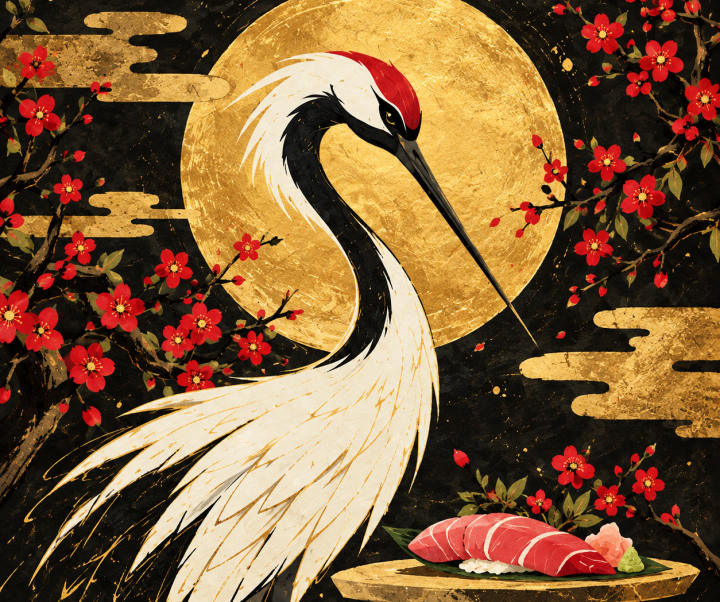
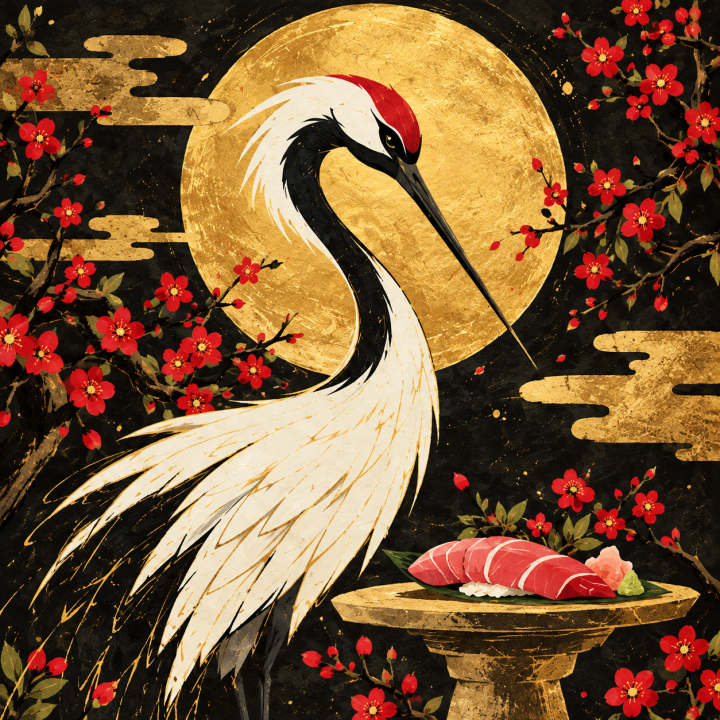
fix: one shared CuisineArt component for every screen, whole-image card art

diff --git a/mobile/src/features/cards/CuisineArtView.tsx b/mobile/src/features/cards/CuisineArtView.tsx
@@ -1,0 +1,77 @@
+import { useState, type ReactNode } from 'react';
+import { Image, StyleSheet, View, type LayoutChangeEvent, type StyleProp, type ViewStyle } from 'react-native';
+import { CuisineIcon } from './CuisineIcon';
+import { cuisineColors, cuisineIconFor, getCuisineArt, getCuisineCardArt, type CuisineKey } from './cuisineArt';
+
+// The one place cuisine art is drawn. Every screen (map tokens, the sheet thumbnail, the card
+// in the collection, detail, reveal and map popup) goes through here, so a cuisine looks the
+// same everywhere and a missing image falls back the same way.
+//   token: a circle, image covers it.      thumb: a rounded square, image covers it.
+//   card:  the whole image, contained and centred, over a blurred copy of itself so the
+//          window never shows empty bars.
+// It fills its parent; the parent decides the size and any outer clipping.
+
+export type CuisineArtVariant = 'token' | 'card' | 'thumb';
+export type CuisineArtTint = { background: string; ink: string };
+
+const RADIUS: Record<CuisineArtVariant, number> = { token: 9999, thumb: 14, card: 0 };
+const BLUR = 24;
+const BACKDROP_DIM = 'rgba(18,14,11,0.35)';
+const LOCKED_DIM = 'rgba(18,14,11,0.45)';
+
+type CuisineArtProps = {
+  cuisine: CuisineKey;
+  variant: CuisineArtVariant;
+  /** Not collected yet: dims the art so it reads as locked. */
+  locked?: boolean;
+  /** Colours for the drawn-icon fallback. Defaults to the cuisine's own colours. */
+  tint?: CuisineArtTint;
+  /** Wraps the fallback icon, for a caller that animates it. */
+  iconWrapper?: (icon: ReactNode) => ReactNode;
+  style?: StyleProp<ViewStyle>;
+};
+
+export function CuisineArt({ cuisine, variant, locked = false, tint, iconWrapper, style }: CuisineArtProps) {
+  const [size, setSize] = useState({ width: 0, height: 0 });
+  const source = variant === 'card' ? getCuisineCardArt(cuisine) : getCuisineArt(cuisine);
+  const onLayout = (event: LayoutChangeEvent) => setSize({ width: event.nativeEvent.layout.width, height: event.nativeEvent.layout.height });
+  const shortSide = Math.min(size.width, size.height);
+
+  let content: ReactNode;
+  if (source && variant === 'card') {
+    content = (
+      <>
+        <Image source={source} resizeMode="cover" blurRadius={BLUR} style={styles.fill} accessibilityIgnoresInvertColors />
+        <View pointerEvents="none" style={[styles.fill, { backgroundColor: BACKDROP_DIM }]} />
+        <Image source={source} resizeMode="contain" style={styles.fill} accessibilityIgnoresInvertColors />
+      </>
+    );
+  } else if (source) {
+    content = <Image source={source} resizeMode="cover" style={styles.fill} accessibilityIgnoresInvertColors />;
+  } else {
+    const colors = cuisineColors(cuisine);
+    const { background, ink } = tint ?? { background: colors.fill, ink: colors.ink };
+    const icon = <CuisineIcon kind={cuisineIconFor(cuisine)} size={Math.round(shortSide * (variant === 'card' ? 0.34 : 0.62))} color={ink} cutout={background} />;
+    const wrapped = iconWrapper ? iconWrapper(icon) : icon;
+    content = variant === 'card' ? (
+      <View style={styles.centred}>
+        <View style={[styles.centred, { width: shortSide * 0.54, height: shortSide * 0.54, borderRadius: shortSide, backgroundColor: background }]}>{wrapped}</View>
+      </View>
+    ) : (
+      <View style={[styles.centred, { backgroundColor: background }]}>{wrapped}</View>
+    );
+  }
+
+  return (
+    <View onLayout={onLayout} style={[styles.root, { borderRadius: RADIUS[variant] }, style]}>
+      {content}
+      {locked ? <View pointerEvents="none" style={[styles.fill, { backgroundColor: LOCKED_DIM }]} /> : null}
+    </View>
+  );
+}
+
+const styles = StyleSheet.create({
+  root: { width: '100%', height: '100%', overflow: 'hidden' },
+  fill: { position: 'absolute', left: 0, top: 0, width: '100%', height: '100%' },
+  centred: { width: '100%', height: '100%', alignItems: 'center', justifyContent: 'center' },
+});

diff --git a/mobile/src/features/map/RestaurantPin.tsx b/mobile/src/features/map/RestaurantPin.tsx
@@ -1,8 +1,8 @@
 import { memo } from 'react';
-import { Image, StyleSheet, Text, View } from 'react-native';
+import { StyleSheet, Text, View } from 'react-native';
 import Animated, { cubicBezier } from 'react-native-reanimated';
-import { CuisineIcon } from '../cards/CuisineIcon';
-import { cuisineColors, getCuisineArt } from '../cards/cuisineArt';
+import { CuisineArt } from '../cards/CuisineArtView';
+import { cuisineColors, hasCuisineArt } from '../cards/cuisineArt';
 import type { MapRestaurant } from './mapRestaurants';
 import { idleMotion, type IdleMotion } from './pinMotion';
 import { pinLook } from './pinStyle';
@@ -114,7 +114,7 @@ export const RestaurantPin = memo(function RestaurantPin({ restaurant, animate, 
   const look = pinLook(restaurant.card?.stage ?? null);
   const motion = idleMotion(restaurant.icon);
   const colors = cuisineColors(restaurant.cuisine);
-  const art = getCuisineArt(restaurant.cuisine);
+  const art = hasCuisineArt(restaurant.cuisine);
   return (
     <View style={[styles.box, { opacity: look.opacity }]}>
       {look.sparkle ? <Crown /> : <View style={styles.crown} />}
@@ -123,17 +123,14 @@ export const RestaurantPin = memo(function RestaurantPin({ restaurant, animate, 
           <Animated.View style={[styles.glow, { boxShadow: `0 0 18px ${look.glow}, 0 0 6px ${look.glow}`, borderColor: look.glow }, animate ? { animationName: glowPulse, ...loop(2400) } : null]} />
         ) : null}
         <View style={[styles.badge, { backgroundColor: colors.fill, borderColor: colors.ring }]}>
-          {art ? (
-            // Art fills the circle, cropped rather than stretched, and stays still.
-            <Image source={art} resizeMode="cover" style={styles.art} accessibilityIgnoresInvertColors />
-          ) : (
-            <>
-              <Animated.View style={animate ? ICON_MOTION[motion] : null}>
-                <CuisineIcon kind={restaurant.icon} size={ICON} color={colors.ink} cutout={colors.fill} />
-              </Animated.View>
-              {animate ? <Extras motion={motion} /> : null}
-            </>
-          )}
+          <CuisineArt
+            cuisine={restaurant.cuisine}
+            variant="token"
+            tint={{ background: colors.fill, ink: colors.ink }}
+            // Art stays still; only the drawn icon runs its idle motion.
+            iconWrapper={(icon) => <Animated.View style={animate ? ICON_MOTION[motion] : null}>{icon}</Animated.View>}
+          />
+          {animate && !art ? <Extras motion={motion} /> : null}
         </View>
         {look.locked ? (
           <View style={styles.lock}>
@@ -160,7 +157,6 @@ const styles = StyleSheet.create({
   crownBand: { width: 32, height: 4, borderRadius: 1, backgroundColor: CROWN, marginBottom: 1 },
   pin: { width: BADGE, height: BADGE },
   badge: { position: 'absolute', left: 0, top: 0, width: BADGE, height: BADGE, borderRadius: BADGE / 2, borderWidth: RING, alignItems: 'center', justifyContent: 'center', boxShadow: '0 4px 8px rgba(0,0,0,0.45)' },
-  art: { width: BADGE - 2 * RING, height: BADGE - 2 * RING, borderRadius: (BADGE - 2 * RING) / 2 },
   glow: { position: 'absolute', left: 0, top: 0, width: BADGE, height: BADGE, borderRadius: BADGE / 2, borderWidth: 1 },
   steam: { position: 'absolute', top: 6, width: 4, height: 11, borderRadius: 2, backgroundColor: 'rgba(255,255,255,0.85)', opacity: 0 },
   flame: { position: 'absolute', top: 4, width: 8, height: 13, borderTopLeftRadius: 6, borderTopRightRadius: 6, borderBottomLeftRadius: 3, borderBottomRightRadius: 3, transformOrigin: '50% 100%' },

diff --git a/mobile/tests/cards-cuisine-art.test.ts b/mobile/tests/cards-cuisine-art.test.ts
@@ -1,0 +1,70 @@
+import { createElement } from 'react';
+import { renderToStaticMarkup } from 'react-dom/server';
+import { describe, expect, it, vi } from 'vitest';
+
+// The app draws with React Native; here the same components render through react-native-web.
+// Image is swapped for a plain <img> so the markup shows which source and fit it was given.
+vi.mock('react-native', async () => {
+  const web = await import('react-native-web');
+  const Image = (props: { source?: { uri?: string }; resizeMode?: string; blurRadius?: number }) =>
+    createElement('img', { 'data-src': props.source?.uri, 'data-fit': props.resizeMode, 'data-blur': props.blurRadius });
+  return { ...web, Image };
+});
+// Image files cannot be required outside Metro, so art "exists" exactly where cuisineArt says it does.
+vi.mock('../src/features/cards/cuisineArt', async (importOriginal) => {
+  const real = await importOriginal<typeof import('../src/features/cards/cuisineArt')>();
+  const fake = (key: import('../src/features/cards/cuisineArt').CuisineKey) => (real.hasCuisineArt(key) ? { uri: `art:${key}` } : null);
+  return { ...real, getCuisineArt: fake, getCuisineCardArt: fake };
+});
+
+import { CuisineArt, type CuisineArtVariant } from '../src/features/cards/CuisineArtView';
+import { CUISINE_KEYS, hasCuisineArt } from '../src/features/cards/cuisineArt';
+
+const VARIANTS: CuisineArtVariant[] = ['token', 'card', 'thumb'];
+const render = (cuisine: (typeof CUISINE_KEYS)[number], variant: CuisineArtVariant, locked = false) =>
+  renderToStaticMarkup(createElement(CuisineArt, { cuisine, variant, locked }));
+
+describe('CuisineArt', () => {
+  it('renders every variant for every cuisine key without crashing', () => {
+    for (const key of CUISINE_KEYS) for (const variant of VARIANTS) expect(render(key, variant)).not.toBe('');
+  });
+
+  it('shows the image where art exists and the drawn icon fallback where it does not', () => {
+    for (const key of CUISINE_KEYS) {
+      for (const variant of VARIANTS) {
+        const html = render(key, variant);
+        if (hasCuisineArt(key)) expect(html).toContain(`data-src="art:${key}"`);
+        else expect(html).not.toContain('<img');
+      }
+    }
+    expect(CUISINE_KEYS.some((key) => !hasCuisineArt(key))).toBe(true);
+    expect(CUISINE_KEYS.some((key) => hasCuisineArt(key))).toBe(true);
+  });
+
+  it('draws the whole image in the card variant (once contained, once as the blurred backdrop) and covers in token and thumb', () => {
+    const key = CUISINE_KEYS.find((candidate) => hasCuisineArt(candidate))!;
+    const card = render(key, 'card');
+    expect(card.match(/<img/g)).toHaveLength(2);
+    expect(card).toContain('data-fit="contain"');
+    expect(card).toContain('data-fit="cover"');
+    expect(card).toContain('data-blur="24"');
+    for (const variant of ['token', 'thumb'] as const) {
+      const html = render(key, variant);
+      expect(html.match(/<img/g)).toHaveLength(1);
+      expect(html).toContain('data-fit="cover"');
+      expect(html).not.toContain('data-blur');
+    }
+  });
+
+  it('dims only when locked, for every cuisine and variant', () => {
+    for (const key of CUISINE_KEYS) {
+      for (const variant of VARIANTS) {
+        expect(render(key, variant, true).length).toBeGreaterThan(render(key, variant, false).length);
+      }
+    }
+  });
+
+  it('covers steak, japanese and default', () => {
+    for (const key of ['steak', 'japanese', 'default'] as const) expect(CUISINE_KEYS).toContain(key);
+  });
+});

diff --git a/mobile/src/features/cards/RestaurantCard.tsx b/mobile/src/features/cards/RestaurantCard.tsx
@@ -2,8 +2,8 @@ import { useMemo } from 'react';
 import { Image, StyleSheet, Text, View, type ImageSourcePropType, type StyleProp, type ViewStyle } from 'react-native';
 import { CardFrame } from './CardFrame';
 import { CardPattern } from './CardPattern';
-import { CuisineIcon } from './CuisineIcon';
-import { cuisineIconFor, cuisineKeyFor, getCuisineCardArt } from './cuisineArt';
+import { CuisineArt } from './CuisineArtView';
+import { cuisineKeyFor, hasCuisineArt } from './cuisineArt';
 import { nameFont } from './fonts';
 import { frameRects, type WindowRect } from './frameLayout';
 import { describeProgress } from './progress';
@@ -29,9 +29,6 @@ type RestaurantCardProps = {
   style?: StyleProp<ViewStyle>;
 };
 
-// Over the art of a card that is not collected yet.
-const LOCKED_DIM = 'rgba(18,14,11,0.45)';
-
 function windowStyle(box: WindowRect, backgroundColor: string): ViewStyle {
   return { position: 'absolute', left: box.x, top: box.y, width: box.w, height: box.h, borderRadius: box.r, backgroundColor, overflow: 'hidden' };
 }
@@ -40,7 +37,6 @@ export function RestaurantCard({ card, width, heroSource, uncollected = false, s
   const rects = useMemo(() => frameRects(width), [width]);
   const { restaurant } = card;
   const cuisine = cuisineKeyFor(restaurant);
-  const cuisineArt = getCuisineCardArt(cuisine);
   const { theme } = restaurant;
   const compact = width < COMPACT_BELOW;
   const px = (value: number) => value * rects.scale;
@@ -72,21 +68,13 @@ export function RestaurantCard({ card, width, heroSource, uncollected = false, s
         </Text>
       </View>
 
-      <View style={[windowStyle(rects.art, theme.primaryColor), styles.centered]}>
+      <View style={windowStyle(rects.art, theme.primaryColor)}>
         {heroSource ? (
           <Image source={heroSource} resizeMode={restaurant.heroImageKind === 'logo' ? 'contain' : 'cover'} style={StyleSheet.absoluteFill} accessibilityIgnoresInvertColors />
-        ) : cuisineArt ? (
-          <>
-            {/* Edge to edge, clipped by the window's rounded corners. Not collected: dimmed, still the full picture. */}
-            <Image source={cuisineArt} resizeMode="cover" style={StyleSheet.absoluteFill} accessibilityIgnoresInvertColors />
-            {uncollected ? <View pointerEvents="none" style={[StyleSheet.absoluteFill, { backgroundColor: LOCKED_DIM }]} /> : null}
-          </>
         ) : (
           <>
-            <CardPattern patternKey={theme.patternKey} color={theme.accentColor} width={rects.art.w} height={rects.art.h} scale={rects.scale} />
-            <View style={[styles.centered, { width: px(300), height: px(300), borderRadius: px(150), backgroundColor: theme.accentColor }]}>
-              <CuisineIcon kind={cuisineIconFor(cuisine)} size={px(190)} color={onAccent} cutout={theme.accentColor} />
-            </View>
+            {hasCuisineArt(cuisine) ? null : <CardPattern patternKey={theme.patternKey} color={theme.accentColor} width={rects.art.w} height={rects.art.h} scale={rects.scale} />}
+            <CuisineArt cuisine={cuisine} variant="card" locked={uncollected} tint={{ background: theme.accentColor, ink: onAccent }} />
           </>
         )}
       </View>

diff --git a/mobile/src/features/map/RestaurantSheet.tsx b/mobile/src/features/map/RestaurantSheet.tsx
@@ -2,7 +2,7 @@ import { Pressable, View } from 'react-native';
 import { useSafeAreaInsets } from 'react-native-safe-area-context';
 import Animated, { cubicBezier, useReducedMotion } from 'react-native-reanimated';
 import { Text } from '@/components/ui/reusables/text';
-import { CuisineIcon } from '../cards/CuisineIcon';
+import { CuisineArt } from '../cards/CuisineArtView';
 import { cuisineColors } from '../cards/cuisineArt';
 import { stageLabel } from '../cards/stageStyles';
 import { readableTextOn } from '../cards/themes';
@@ -50,10 +50,8 @@ export function RestaurantSheet({ restaurant, distance, onOpenCard, onScan, onVi
           onPress={onOpenCard}
           className="flex-1 flex-row items-center gap-3 active:opacity-80"
         >
-          <View className="h-16 w-16 items-center justify-center overflow-hidden rounded-2xl" style={{ backgroundColor: theme.primaryColor, borderWidth: 2, borderColor: colors.ring }}>
-            <View className="h-12 w-12 items-center justify-center rounded-full" style={{ backgroundColor: theme.accentColor }}>
-              <CuisineIcon kind={restaurant.icon} size={30} color={readableTextOn(theme.accentColor)} cutout={theme.accentColor} />
-            </View>
+          <View className="h-16 w-16 overflow-hidden rounded-2xl" style={{ borderWidth: 2, borderColor: colors.ring }}>
+            <CuisineArt cuisine={restaurant.cuisine} variant="thumb" locked={!card} tint={{ background: colors.fill, ink: colors.ink }} />
           </View>
           <View className="flex-1 gap-1">
             <Text numberOfLines={1} className="text-lg font-extrabold" style={{ color: INK }}>{restaurant.name}</Text>

diff --git a/mobile/tests/test-modules.d.ts b/mobile/tests/test-modules.d.ts
@@ -1,0 +1,5 @@
+// These two ship without types here; the component test only needs a small slice of each.
+declare module 'react-dom/server' {
+  export function renderToStaticMarkup(element: unknown): string;
+}
+declare module 'react-native-web';
